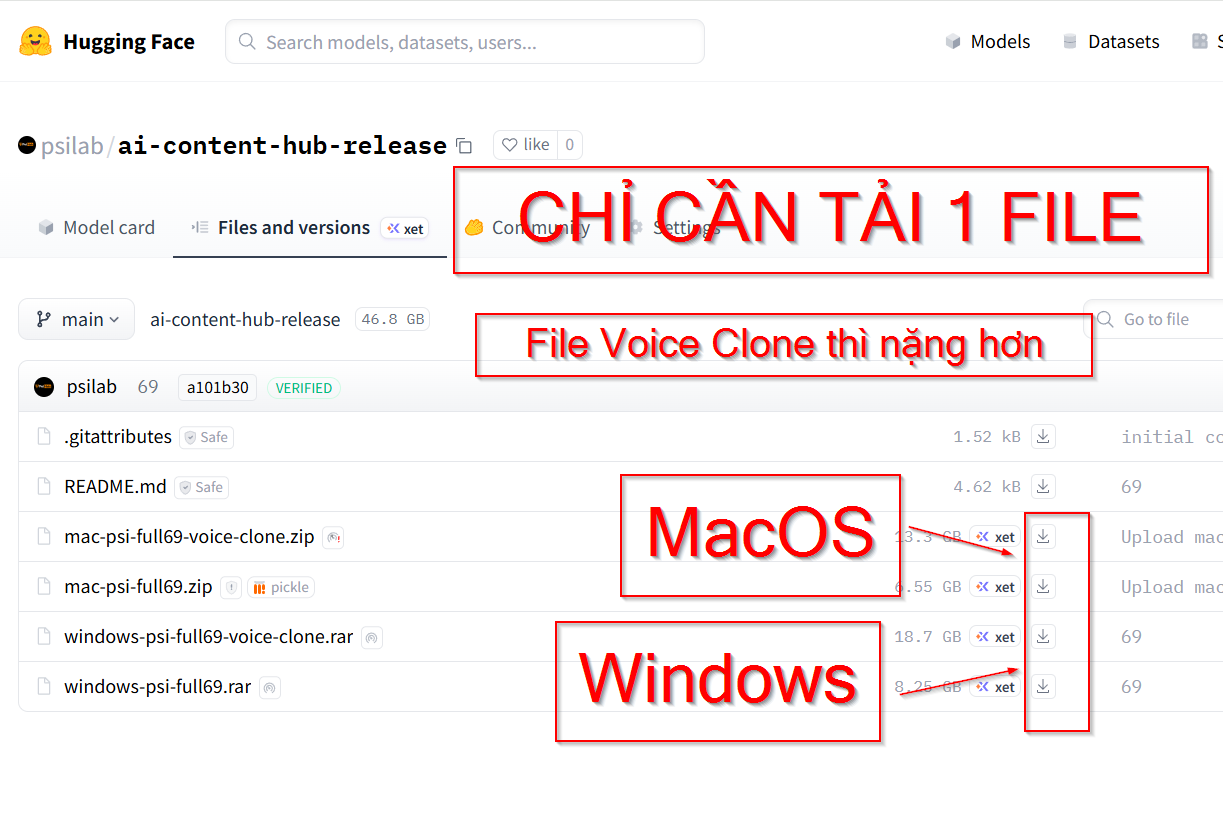
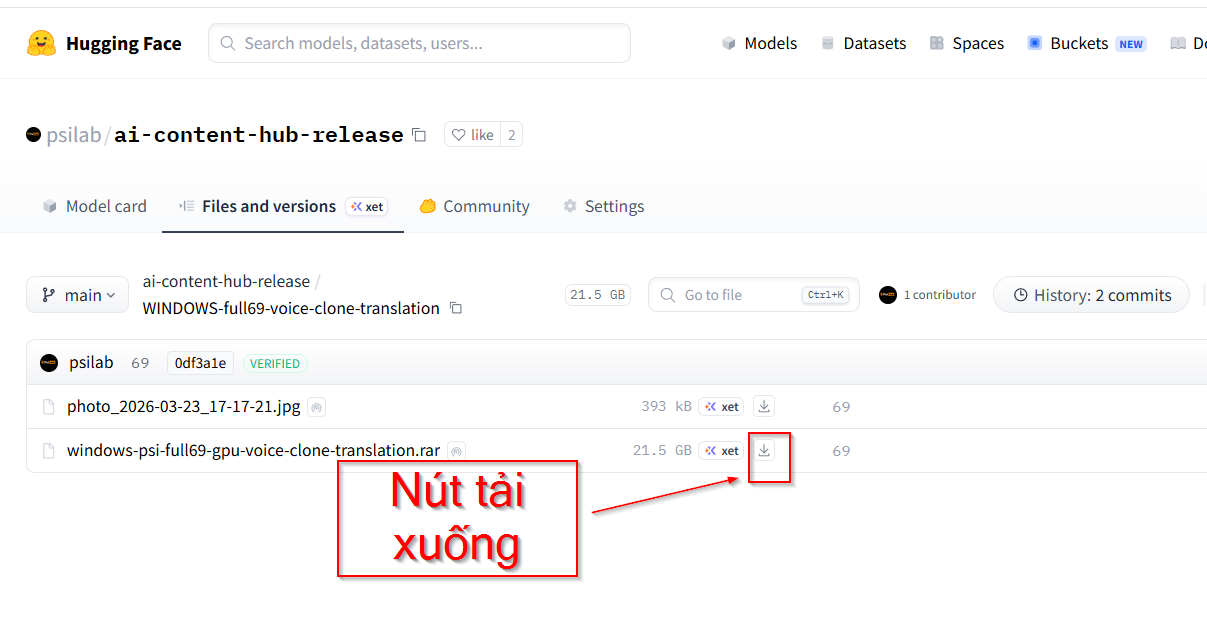
update docs Win

diff --git a/src/pages/ContentHubInstallGuide.tsx b/src/pages/ContentHubInstallGuide.tsx
@@ -13,11 +13,18 @@ interface StepLink {
   url: string;
 }
 
+interface StepDetailLink {
+  text: string;
+  url: string;
+  detail: string;
+}
+
 interface StepData {
   number: number;
   title: string;
   description: string;
   link?: StepLink;
+  links?: StepDetailLink[];
   image?: string;
   note?: string;
   noteImage?: string;
@@ -162,6 +169,23 @@ export function ContentHubInstallGuide() {
                     <p className="text-white text-base mt-1">
                       {renderDescription(step.description, step.link)}
                     </p>
+                    {step.links && (
+                      <div className="mt-3 flex flex-col gap-3">
+                        {step.links.map((l, i) => (
+                          <div key={i}>
+                            <a
+                              href={l.url}
+                              target="_blank"
+                              rel="noopener noreferrer"
+                              className="text-[#ffa31a] underline hover:text-white transition-colors font-bold"
+                            >
+                              {l.text}
+                            </a>
+                            <span className="text-white"> : {l.detail}</span>
+                          </div>
+                        ))}
+                      </div>
+                    )}
                   </div>
                 </div>
 
